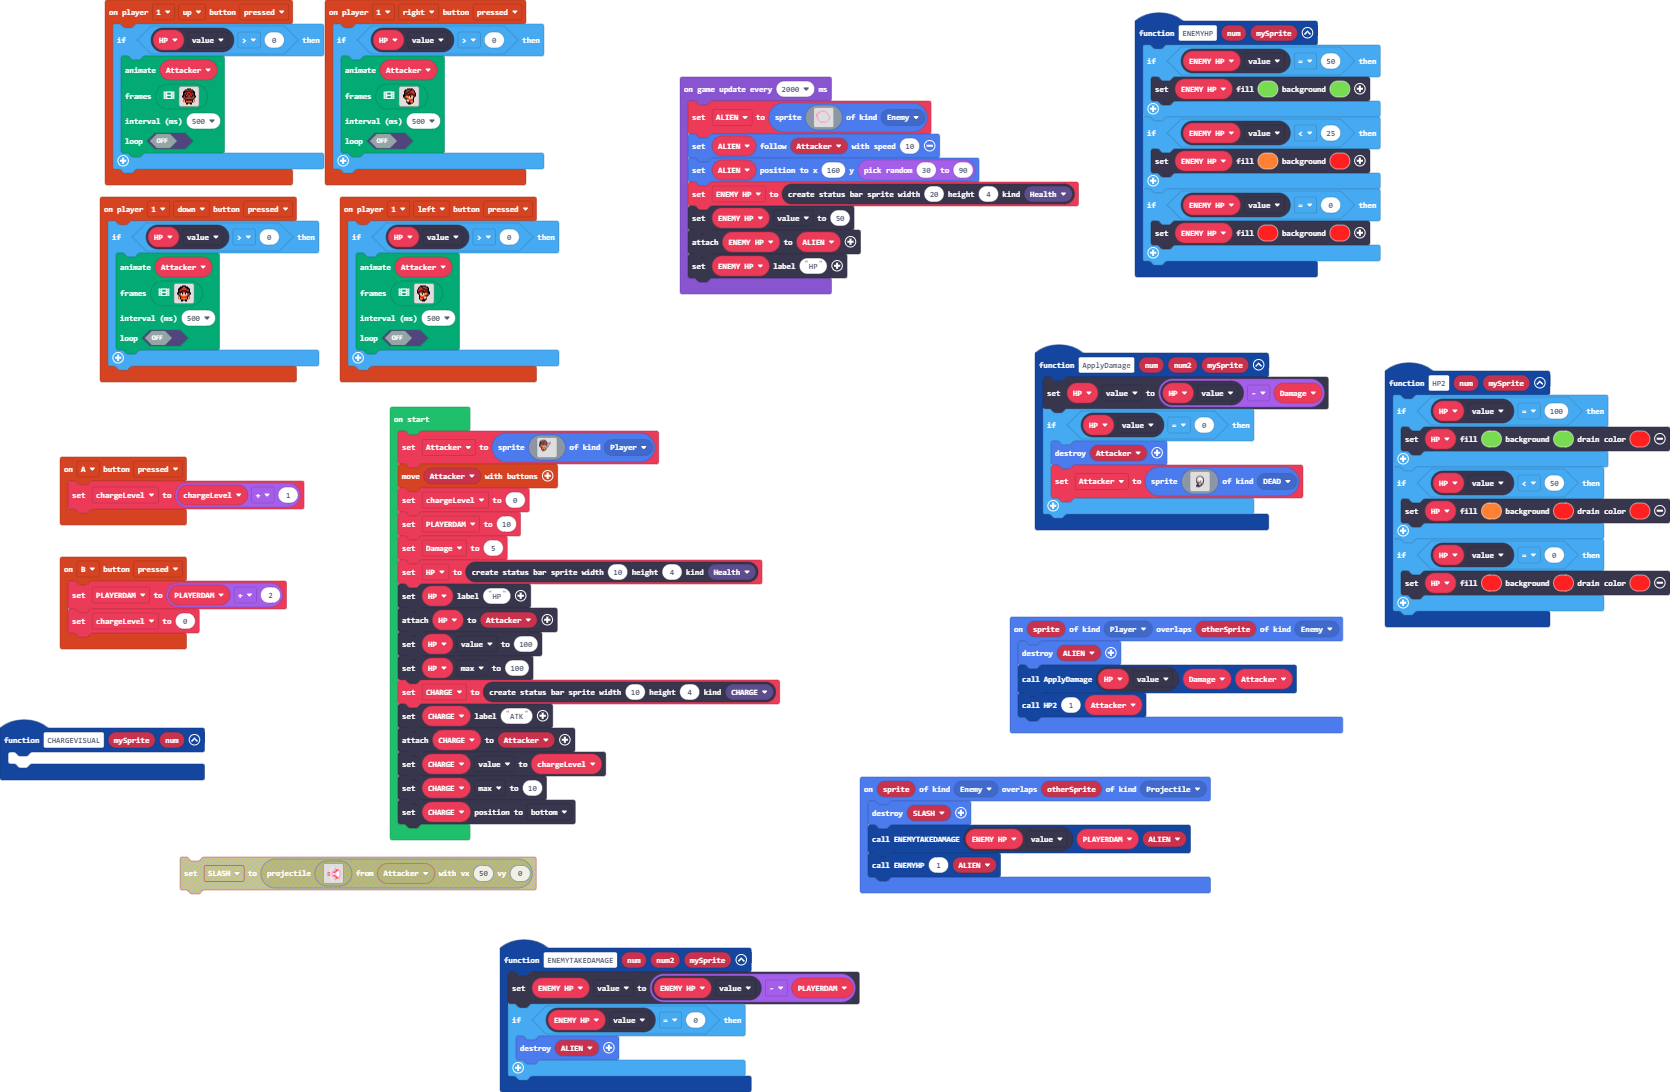
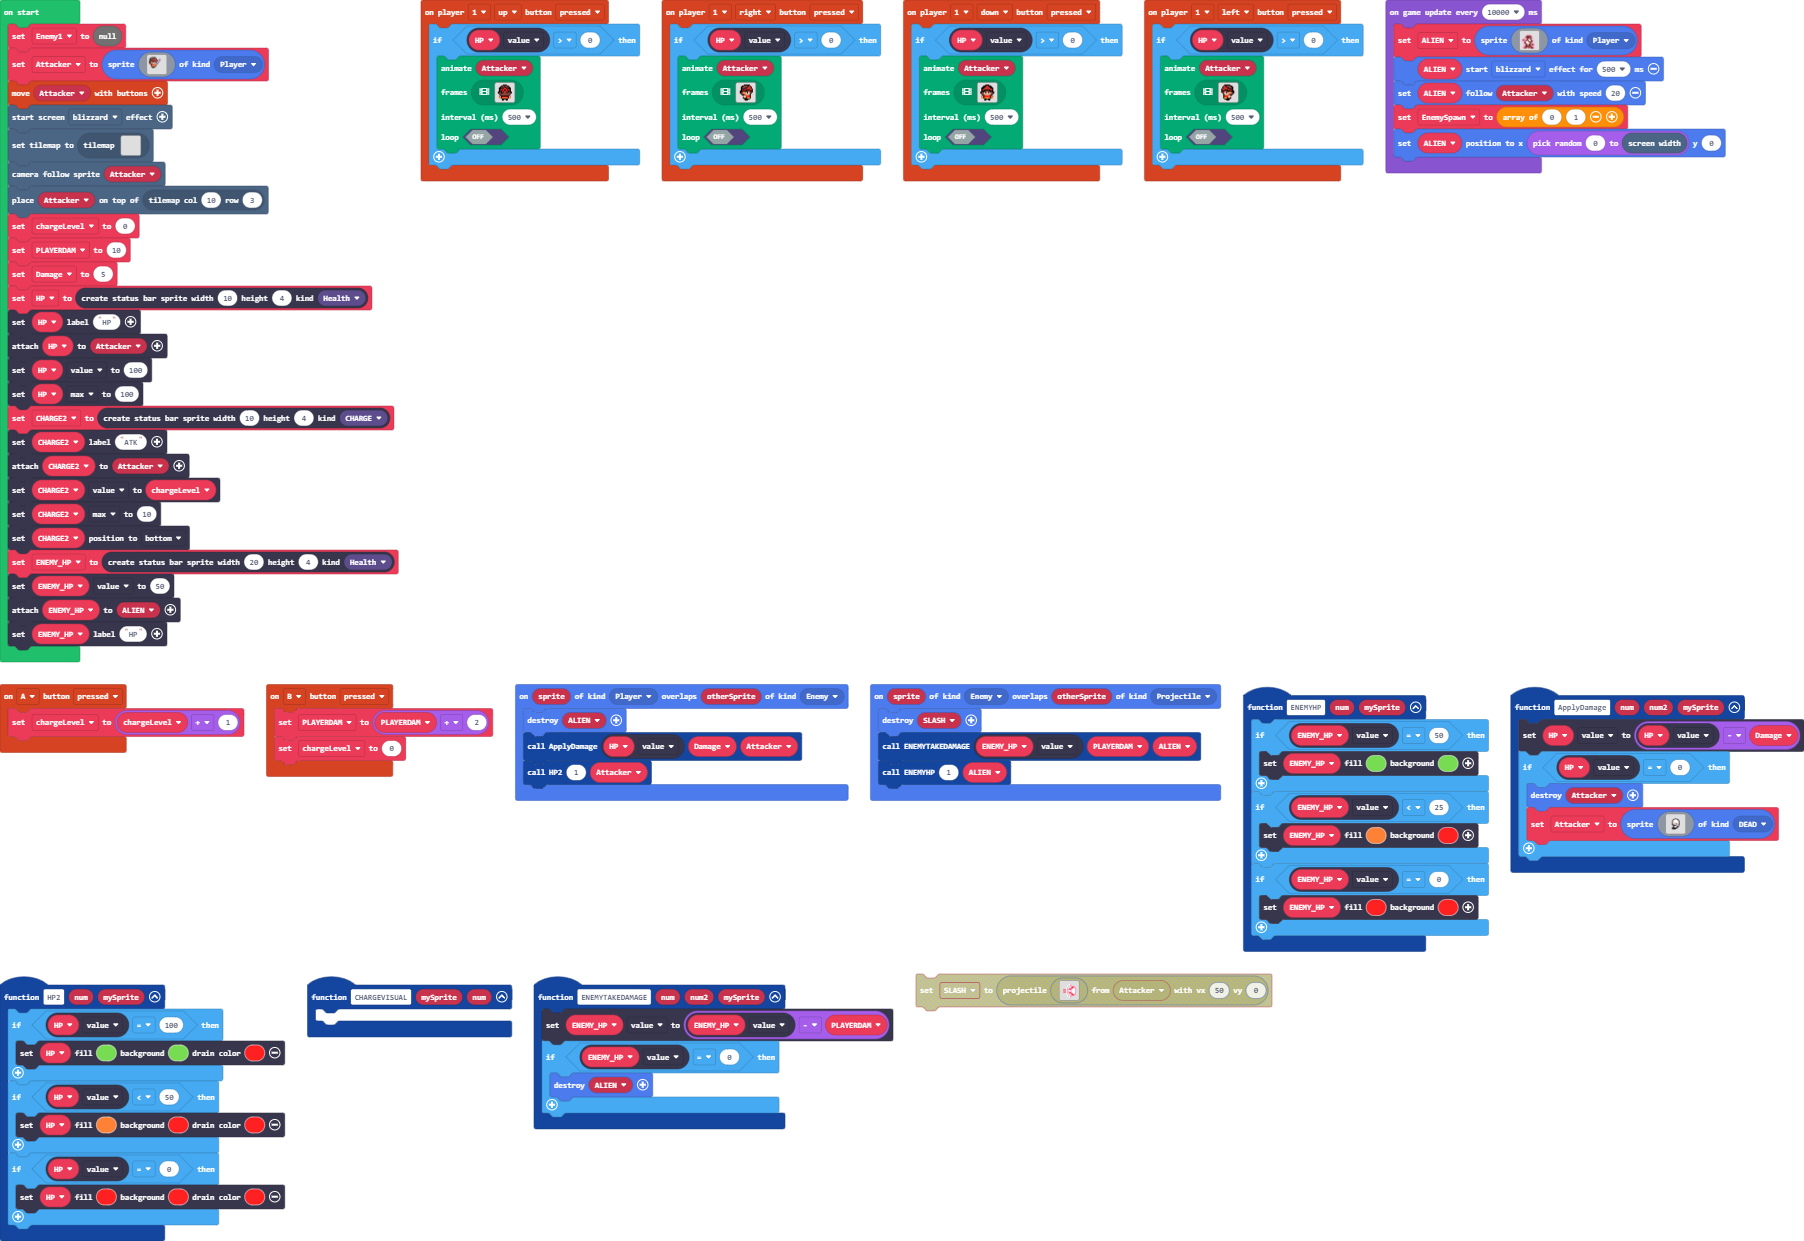
Update pxt.json, main.blocks, main.ts, tilemap.g.jres, tilemap.g.ts

diff --git a/main.ts b/main.ts
@@ -402,6 +402,7 @@ sprites.onOverlap(SpriteKind.Player, SpriteKind.Enemy, function (sprite, otherSp
     ApplyDamage(HP.value, Damage, Attacker)
     HP2(1, Attacker)
 })
+let EnemySpawn: number[] = []
 let ALIEN: Sprite = null
 let ENEMY_HP: StatusBarSprite = null
 let HP: StatusBarSprite = null
@@ -409,6 +410,7 @@ let Damage = 0
 let PLAYERDAM = 0
 let chargeLevel = 0
 let Attacker: Sprite = null
+let Enemy1 = null
 Attacker = sprites.create(img`
     ........................
     ....ffffff..............
@@ -436,6 +438,10 @@ Attacker = sprites.create(img`
     ........................
     `, SpriteKind.Player)
 controller.moveSprite(Attacker)
+effects.blizzard.startScreenEffect()
+tiles.setCurrentTilemap(tilemap`level3`)
+scene.cameraFollowSprite(Attacker)
+tiles.placeOnTile(Attacker, tiles.getTileLocation(10, 3))
 chargeLevel = 0
 PLAYERDAM = 10
 Damage = 5
@@ -444,35 +450,37 @@ HP.setLabel("HP")
 HP.attachToSprite(Attacker)
 HP.value = 100
 HP.max = 100
-let CHARGE = statusbars.create(10, 4, StatusBarKind.CHARGE)
-CHARGE.setLabel("ATK")
-CHARGE.attachToSprite(Attacker)
-CHARGE.value = chargeLevel
-CHARGE.max = 10
-CHARGE.positionDirection(CollisionDirection.Bottom)
-game.onUpdateInterval(2000, function () {
+let CHARGE2 = statusbars.create(10, 4, StatusBarKind.CHARGE)
+CHARGE2.setLabel("ATK")
+CHARGE2.attachToSprite(Attacker)
+CHARGE2.value = chargeLevel
+CHARGE2.max = 10
+CHARGE2.positionDirection(CollisionDirection.Bottom)
+ENEMY_HP = statusbars.create(20, 4, StatusBarKind.Health)
+ENEMY_HP.value = 50
+ENEMY_HP.attachToSprite(ALIEN)
+ENEMY_HP.setLabel("HP")
+game.onUpdateInterval(10000, function () {
     ALIEN = sprites.create(img`
         . . . . . . . . . . . . . . . . 
+        . . . . . . . . . . . . . . . . 
         . . . . . 3 3 3 3 . . . . . . . 
-        . . . 3 3 . . . . 3 3 . . . . . 
-        . . 3 3 . . . . . . . 3 . . . . 
-        3 3 . . . . . . . . . 3 . . . . 
-        3 3 . . . . . . . . . . 3 . . . 
-        3 3 . . . . . . . . . . . 3 . . 
-        . 3 . . . . . . . . . . . 3 . . 
-        . 3 . . . . . . . . . . . 3 . . 
-        . . 3 . . . . . . . . . . 3 . . 
-        . . 3 . . . . . . . . . 3 . . . 
-        . . . 3 . . . . . . . 3 . . . . 
-        . . . . 3 3 3 3 3 3 3 . . . . . 
-        . . . . . . . . . . . . . . . . 
-        . . . . . . . . . . . . . . . . 
-        . . . . . . . . . . . . . . . . 
-        `, SpriteKind.Enemy)
-    ALIEN.follow(Attacker, 10)
-    ALIEN.setPosition(160, randint(30, 90))
-    ENEMY_HP = statusbars.create(20, 4, StatusBarKind.Health)
-    ENEMY_HP.value = 50
-    ENEMY_HP.attachToSprite(ALIEN)
-    ENEMY_HP.setLabel("HP")
+        . . . . 3 e e e e e . . . . . . 
+        . . . 3 e e f e e e 3 . . . . . 
+        . . . 3 b e e e e b b . . . . . 
+        . 3 3 3 1 e e 1 e e 3 . . . . . 
+        3 e e 3 e e e 1 1 e 3 . . . . . 
+        . 3 3 3 e 1 e e 1 e f 3 . . . . 
+        . . 3 f 1 1 1 e e e 3 . . . . . 
+        . . 3 e e 1 1 1 e e 3 3 . . . . 
+        . . 3 3 e e 1 e e 3 e b 3 . . . 
+        . . . 3 e e b e f 3 e e 3 . . . 
+        . . 3 3 f e e e e e 3 3 . . . . 
+        . 3 3 e e e e e e e e 3 3 . . . 
+        . 3 b e e 3 3 e 3 e f e 3 . . . 
+        `, SpriteKind.Player)
+    ALIEN.startEffect(effects.blizzard, 500)
+    ALIEN.follow(Attacker, 20)
+    EnemySpawn = [0, 1]
+    ALIEN.setPosition(randint(0, scene.screenWidth()), 0)
 })

diff --git a/tilemap.g.ts b/tilemap.g.ts
@@ -43,6 +43,25 @@ namespace myTiles {
 . . . . . . . . . . . . . . . . 
 . . . . . . . . . . . . . . . . 
 `, [myTiles.transparency16], TileScale.Sixteen);
+            case "level3":
+            case "level3":return tiles.createTilemap(hex`1000100000000000000000000000000000000000000000000000000000000000000000000000000000000000000000000000000000000000000000000000000000000000000000000000000000000000000000000000000000000000000000000000000000000000000000000000000000000000000000000000000000000000000000000000000000000000000000000000000000000000000000000000000000000000000000000000000000000000000000000000000000000000000000000000000000000000000000000000000000000000000000000000000000000000000000000000000000000000000000000000000000000000000000000000000000000000`, img`
+. . . . . . . . . . . . . . . . 
+. . . . . . . . . . . . . . . . 
+. . . . . . . . . . . . . . . . 
+. . . . . . . . . . . . . . . . 
+. . . . . . . . . . . . . . . . 
+. . . . . . . . . . . . . . . . 
+. . . . . . . . . . . . . . . . 
+. . . . . . . . . . . . . . . . 
+. . . . . . . . . . . . . . . . 
+. . . . . . . . . . . . . . . . 
+. . . . . . . . . . . . . . . . 
+. . . . . . . . . . . . . . . . 
+. . . . . . . . . . . . . . . . 
+. . . . . . . . . . . . . . . . 
+. . . . . . . . . . . . . . . . 
+. . . . . . . . . . . . . . . . 
+`, [], -Infinity);
         }
         return null;
     })
